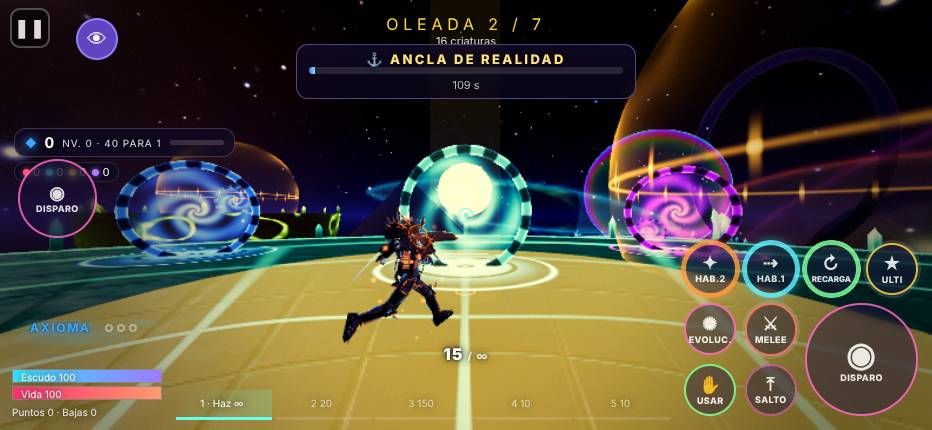
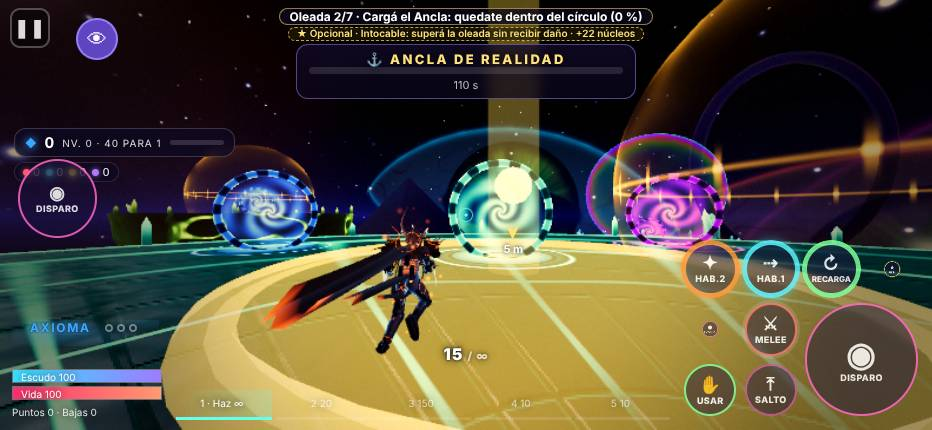
Metas claras: línea de objetivo, mini-misiones, guía de primera partida, flecha al objetivo
Claude-Session: https://claude.ai/code/session_01FQkQoAoCaRgGqcom58Ns3g

diff --git a/tests/eventos.test.js b/tests/eventos.test.js
@@ -1,0 +1,197 @@
+// Eventos de oleada (src/sim/eventos.js): la gravedad invertida sólo existe dentro de «Marea de Gravedad».
+import test from 'node:test';
+import assert from 'node:assert/strict';
+import { Game } from '../src/sim/game.js';
+import { makeBot } from '../src/sim/bot.js';
+import { EVENTO, EVENTOS, EVENTO_IDS, EVENTOS_MAPA, WAVE_PLANS } from '../src/sim/data.js';
+import { iniciarEvento, puedeInvertir, volteaJugador, factorFlip, planOleada } from '../src/sim/eventos.js';
+import { MAP_IDS } from '../src/sim/maps.js';
+import { arena, run, ahead, hash } from './helpers.js';
+import { len, dot, dist } from '../src/sim/math.js';
+
+/** Partida larga con un bot invulnerable; registra eventos de oleada y cambios de gravedad de cada jugador. */
+function jugar({ mapId = 'm1', seed = 1, oleadas = 12, maxSeg = 3000, dt = 1 / 30, soft = false } = {}) {
+  const g = new Game({ mapId, seed }); g.waveTotal = oleadas + 1;
+  const p = g.addPlayer('bot'); const bot = makeBot(g, p.id, { seed, skill: 1.2 });
+  const avisos = [], activos = [], flips = [], gravEv = []; let ultima = 0;
+  while (g.state === 'playing' && g.wave <= oleadas && g.time < maxSeg) {
+    p.hp = 1e9; p.shield = 100;
+    const inp = bot(dt); if (soft) inp.soft = true; g.setInput(p.id, inp);
+    const antes = p.flipFrom, flipAntes = g.time < p.flipUntil;
+    g.step(dt);
+    for (const e of g.events) {
+      if (e.t === 'ev' && e.ph === 'aviso') avisos.push({ id: e.id, wave: g.wave, t: g.time });
+      if (e.t === 'ev' && e.ph === 'activo') activos.push({ id: e.id, wave: g.wave, t: g.time });
+      if (e.t === 'gravity') gravEv.push({ t: g.time, soft: !!e.soft, marea: puedeInvertir(g) });
+    }
+    if (!flipAntes && g.time < p.flipUntil) flips.push({ t: g.time, marea: puedeInvertir(g), id: g.ev && g.ev.id });
+    void antes; ultima = g.time; g.events.length = 0;
+  }
+  return { g, p, avisos, activos, flips, gravEv, ultima };
+}
+
+test('datos: 8 eventos con nombre, descripción, telegrafía y contrapartida; cada mapa tiene su subconjunto con pesos', () => {
+  assert.ok(EVENTO_IDS.length >= 7);
+  for (const id of EVENTO_IDS) { const D = EVENTOS[id]; for (const k of ['name', 'desc', 'tele', 'contra']) assert.ok(typeof D[k] === 'string' && D[k].length > 3, `${id}.${k}`); assert.ok(D.dur > 0 && D.dur <= 30, `${id} duración acotada`); }
+  const usados = new Set();
+  for (const m of MAP_IDS) { const w = EVENTOS_MAPA[m]; assert.ok(w && Object.keys(w).length >= 4, `mapa ${m} sin subconjunto`); for (const [k, v] of Object.entries(w)) { assert.ok(EVENTOS[k], `${m}: evento desconocido ${k}`); assert.ok(v > 0); usados.add(k); } }
+  assert.deepEqual([...usados].sort(), [...EVENTO_IDS].sort(), 'todos los eventos aparecen en algún mapa');
+  assert.ok(EVENTOS_MAPA.m1.marea_gravedad >= 3 && EVENTOS_MAPA.m2.marea_gravedad >= 3, 'el Vacío de Islas y la Cámara Fractal son los de la gravedad');
+  assert.equal(EVENTO.flipMax, 3.5); assert.equal(EVENTO.flipBloqueo, 20); assert.equal(EVENTO.aviso, 4);
+});
+
+test('determinista: misma semilla ⇒ mismos eventos, mismas fechas y mismo estado; otra semilla ⇒ otro plan', () => {
+  const a = jugar({ seed: 5, oleadas: 5 }), b = jugar({ seed: 5, oleadas: 5 }), c = jugar({ seed: 6, oleadas: 5 });
+  assert.deepEqual(a.g.evLog, b.g.evLog); assert.deepEqual(a.avisos, b.avisos); assert.equal(hash(a.g.snapshot()), hash(b.g.snapshot()));
+  assert.ok(a.g.evLog.length >= 1, 'hubo eventos');  void c;
+  const plan = (seed) => { const g = new Game({ mapId: 'm1', seed }); const out = []; for (let n = 1; n <= 12; n++) { g.wave = n; g.evLastWave = -9; planOleada(g, n, false); out.push(g.evPlan ? g.evPlan.id : null); } return out.join(); };
+  assert.equal(plan(3), plan(3)); assert.notEqual(plan(3), plan(4));
+});
+
+test('máximo UN evento por oleada, ninguno antes de la oleada 3, nunca en dos oleadas seguidas y avisado ~4 s antes', () => {
+  for (const mapId of ['m1', 'm3']) {
+    const r = jugar({ mapId, seed: 2, oleadas: 12 });
+    assert.ok(r.g.wave >= 10, `${mapId}: el bot llegó a la oleada ${r.g.wave}`);
+    const porOleada = {}; for (const a of r.avisos) porOleada[a.wave] = (porOleada[a.wave] || 0) + 1;
+    for (const [w, n] of Object.entries(porOleada)) { assert.equal(n, 1, `${mapId}: ${n} eventos en la oleada ${w}`); assert.ok(+w >= EVENTO.minOleada, `evento en la oleada ${w}`); }
+    const ws = Object.keys(porOleada).map(Number).sort((x, y) => x - y);
+    for (let i = 1; i < ws.length; i++) assert.ok(ws[i] - ws[i - 1] >= 2, `${mapId}: oleadas seguidas con evento ${ws[i - 1]},${ws[i]}`);
+    assert.ok(ws.length >= 2 && ws.length <= 8, `${mapId}: eventos en ${ws.length} oleadas de 12`);
+    for (const a of r.avisos) { const ac = r.activos.find((x) => x.id === a.id && x.t >= a.t); assert.ok(ac && Math.abs(ac.t - a.t - EVENTO.aviso) < 0.1, `aviso ${EVENTO.aviso} s antes`); }
+    for (const e of r.g.evLog) assert.ok(EVENTOS[e.id]);
+  }
+});
+
+test('la gravedad SÓLO se invierte dentro de la Marea de Gravedad; nunca dos inversiones a un jugador en 20 s; <3 cambios por minuto', () => {
+  // Forzamos que casi toda oleada elegible traiga Marea de Gravedad (peor caso): si aun así se cumple, con el azar normal sobra.
+  const prob = EVENTO.prob, pesos = { ...EVENTOS_MAPA.m1 }, p2 = { ...EVENTOS_MAPA.m2 }, p6 = { ...EVENTOS_MAPA.m6 };
+  EVENTO.prob = 1; for (const [m, w] of [['m1', pesos], ['m2', p2], ['m6', p6]]) { for (const k of Object.keys(w)) EVENTOS_MAPA[m][k] = k === 'marea_gravedad' ? 10 : 0.0001; }
+  let totalFlips = 0, mareas = 0;
+  try {
+    for (const [mapId, seed, oleadas] of [['m1', 1, 12], ['m1', 7, 10], ['m2', 3, 7], ['m6', 5, 8]]) {
+      const r = jugar({ mapId, seed, oleadas });
+      mareas += r.g.evLog.filter((e) => e.id === 'marea_gravedad').length;
+      for (const f of r.flips) assert.ok(f.marea && f.id === 'marea_gravedad', `${mapId}/${seed}: inversión fuera de la Marea en t=${f.t.toFixed(1)}`);
+      for (const e of r.gravEv) assert.ok(e.marea, `${mapId}/${seed}: pulso de gravedad fuera de la Marea`);
+      for (let i = 1; i < r.flips.length; i++) assert.ok(r.flips[i].t - r.flips[i - 1].t >= EVENTO.flipBloqueo, `${mapId}/${seed}: dos inversiones a ${(r.flips[i].t - r.flips[i - 1].t).toFixed(1)} s`);
+      const t = r.flips.map((f) => f.t); // ventana deslizante de 60 s y promedio por minuto
+      for (let i = 0; i < t.length; i++) assert.ok(t.filter((x) => x >= t[i] && x < t[i] + 60).length < 3, `${mapId}/${seed}: ≥3 cambios en un minuto`);
+      assert.ok(r.flips.length / (r.ultima / 60) < 3, `${mapId}: promedio ${(r.flips.length / (r.ultima / 60)).toFixed(2)}/min`);
+      totalFlips += r.flips.length;
+    }
+  } finally { EVENTO.prob = prob; Object.assign(EVENTOS_MAPA.m1, pesos); Object.assign(EVENTOS_MAPA.m2, p2); Object.assign(EVENTOS_MAPA.m6, p6); }
+  assert.ok(mareas >= 6 && totalFlips >= 3, `la prueba debe ejercitar la Marea (mareas ${mareas}, inversiones ${totalFlips})`);
+  // y con el azar normal (sin forzar), una partida larga tampoco rompe nada
+  const n = jugar({ mapId: 'm1', seed: 11, oleadas: 12 }); for (const f of n.flips) assert.ok(f.marea);
+  console.log(`# 4 partidas forzadas: ${mareas} mareas, ${totalFlips} inversiones de jugador; azar normal: ${n.flips.length} en ${(n.ultima / 60).toFixed(0)} min`);
+});
+
+test('bloqueo de 20 s: volteaJugador no repite al mismo jugador; dura como máximo 3,5 s; rampa suave y aterrizaje blando', () => {
+  const { g, p } = arena('m1'); p.pos.y = 30; p.vel = { x: 0, y: 0, z: 0 };
+  assert.equal(volteaJugador(g, p, 9), true); assert.ok(p.flipUntil - g.time <= 3.5 + 1e-9, 'tope de 3,5 s');
+  assert.equal(volteaJugador(g, p), false, 'no se repite');
+  assert.equal(factorFlip(0, 0, 3.5), 1); assert.ok(factorFlip(0.3, 0, 3.5) > -0.2 && factorFlip(0.3, 0, 3.5) < 0.6, 'a mitad de la rampa pasa por ~0 (flotar), no de golpe');
+  assert.equal(factorFlip(1.5, 0, 3.5), -1); assert.equal(factorFlip(3.499, 0, 3.5) > 0.9, true);
+  let upMin = 9; const up0 = p.up.y; g.setInput(p.id, {});
+  run(g, 3.4, () => { upMin = Math.min(upMin, p.up.y); });
+  assert.ok(upMin < -0.9, 'se dio vuelta'); assert.ok(up0 > 0.9);
+  // terminada la inversión: sube como mucho unos u/s y la caída se limita hasta tocar suelo
+  run(g, 1.0); assert.ok(p.vel.y < 12, `sin lanzamiento hacia arriba (vy=${p.vel.y.toFixed(1)})`);
+  let peorCaida = 0; run(g, 8, () => { if (g.time < p.cushionUntil) peorCaida = Math.max(peorCaida, -p.vel.y); });
+  assert.ok(peorCaida <= EVENTO.amortiguaCaida + 0.8, `caída amortiguada (${peorCaida.toFixed(1)} u/s)`);
+  assert.ok(g.time < p.flipLock, 'sigue el bloqueo de 20 s');
+  g.time = p.flipLock + 0.1; assert.equal(volteaJugador(g, p), true, 'pasados los 20 s se puede otra vez');
+});
+
+test('«Reducir efectos de gravedad» (soft): la inversión es un empujón hacia arriba, sin giro (up no cambia) y con el mismo bloqueo', () => {
+  const { g, p } = arena('m1'); g.setInput(p.id, { soft: true });
+  assert.equal(volteaJugador(g, p), true); assert.ok(!(g.time < p.flipUntil), 'sin inversión');
+  let upMin = 9, vyMax = 0; run(g, 2, () => { upMin = Math.min(upMin, p.up.y); vyMax = Math.max(vyMax, p.vel.y); });
+  assert.ok(upMin > 0.99, 'la cámara no gira'); assert.ok(vyMax > 3, `empujón hacia arriba (vy máx ${vyMax.toFixed(1)})`);
+  assert.equal(volteaJugador(g, p), false); assert.equal(g.snapshot().players[0].flip, false);
+  const r = jugar({ mapId: 'm1', seed: 1, oleadas: 6, soft: true }); assert.equal(r.flips.length, 0, 'ningún giro con soft');
+});
+
+test('Marea de Gravedad: cuenta atrás de 3 s en el snapshot y luego invierte a todos; fuera de la Marea los jefes no invierten', () => {
+  const { g, p } = prep('m1'); g.wave = 3;
+  assert.equal(puedeInvertir(g), false); iniciarEvento(g, 'marea_gravedad');
+  let s = g.snapshot().ev; assert.equal(s.ph, 'aviso'); assert.ok(s.t <= 4 && s.t > 3.9); assert.equal(puedeInvertir(g), false, 'durante el aviso aún no');
+  run(g, 4.1); s = g.snapshot().ev; assert.equal(s.ph, 'activo'); assert.ok(s.cd > 0 && s.cd <= 3, 'cuenta atrás visible'); assert.equal(puedeInvertir(g), true);
+  const antes = g.time < p.flipUntil; run(g, 3.2); assert.equal(antes, false); assert.ok(g.time < p.flipUntil || p.flipLock > 0, 'invirtió tras la cuenta atrás');
+  assert.ok(p.flipUntil - p.flipFrom <= 3.5 + 1e-9);
+  const cores0 = p.cores; run(g, 8); assert.equal(g.ev, null, 'terminó'); assert.equal(puedeInvertir(g), false); assert.ok(p.cores > cores0 || g.pickups.length > 0, 'premio al terminar');
+});
+
+test('Cámara Fractal: su marea de ingravidez es el evento (sin reloj de 60 s) y termina con aterrizaje blando', () => {
+  const { g, p } = prep('m2');
+  run(g, 130); assert.ok(!g.map.zeroG(g.time) && !g.snapshot().fx.zero, 'sin evento no hay ingravidez, ni a los 130 s');
+  iniciarEvento(g, 'marea_gravedad'); run(g, 1); assert.equal(g.snapshot().fx.warn, true, 'el aviso enciende la advertencia del cascarón');
+  run(g, 3.5); assert.equal(g.snapshot().fx.zero, true); assert.ok(len(g.map.gravityAt(p.pos, g.time)) === 0);
+  let blando = false; run(g, 6.2, () => { if (p.cushionUntil > g.time) blando = true; }); assert.equal(g.snapshot().fx.zero, false); assert.ok(blando, 'amortiguación al volver la gravedad');
+  assert.ok(new Game({ mapId: 'm2' }).map !== new Game({ mapId: 'm2' }).map, 'cada partida tiene su propia marea (instancia)');
+});
+
+/* ───────── los otros eventos ───────── */
+const prep = (mapId = 'm1') => { const { g, p } = arena(mapId); g.phase = 'wave'; g.wave = 4; g.queue = []; g.spawnT = 99; g.curTypes = ['astilla', 'racimo'];
+  const d = g.spawnMonster('geoda', ahead(p, 22)); d.passive = true; d.cd = 1e9; d.hp = d.maxhp = 1e9; // una criatura lejana: la oleada no termina sola
+  return { g, p }; };
+
+test('Lluvia de Astillas: marca círculos en el suelo y, 1,5 s después, el impacto hiere a quien siga ahí', () => {
+  const { g, p } = prep(); p.shield = 1000; g.setInput(p.id, {}); iniciarEvento(g, 'lluvia_astillas', { aviso: 0 });
+  let vistas = 0, maxMk = 0; const sh0 = p.shield; run(g, 8, () => { const mk = g.snapshot().ev.mk; vistas += mk.length ? 1 : 0; maxMk = Math.max(maxMk, mk.length); });
+  assert.ok(vistas > 60 && maxMk <= 8, 'círculos telegrafiados'); const m = g.snapshot().ev.mk[0]; if (m) assert.ok(m[3] <= 1.5 + 1e-6, 'tiempo restante visible');
+  assert.ok(p.shield < sh0 || p.hp < 1e6, 'hubo impactos');
+});
+
+test('Tormenta de Ecos: el rayo cae donde estabas y destroza a las criaturas que atraigas al círculo', () => {
+  const { g, p } = prep(); iniciarEvento(g, 'tormenta_ecos', { aviso: 0 });
+  const m = g.spawnMonster('geoda', ahead(p, 2)); m.cd = 1e9; m.hp = m.maxhp = 90; m.passive = true; const hp0 = m.hp; let marcado = false;
+  run(g, 6, () => { const mk = g.snapshot().ev.mk; if (mk.length && dist({ x: mk[0][0], y: mk[0][1], z: mk[0][2] }, p.pos) < 1) marcado = true; });
+  assert.ok(marcado, 'se marcó el punto donde estás'); assert.ok(m.dead || m.hp < hp0, 'el rayo también daña a las criaturas');
+});
+
+test('Eclipse: más élites con afijo y más núcleos por baja; Niebla: núcleos ×1,5; Silencio: sin habilidades y melé ×1,5', () => {
+  const { g, p } = prep(); iniciarEvento(g, 'eclipse', { aviso: 0 }); assert.equal(g.evCoreMul, 1.8); assert.ok(g.evEliteBoost > 0.3);
+  let elites = 0; for (let i = 0; i < 40; i++) { const m = g.spawnMonster('astilla', ahead(p, 30 + i)); if (m && m.elite) { elites++; assert.ok(m.affix, 'élite con afijo'); } }
+  assert.ok(elites > 10, `muchos élites en el Eclipse (${elites}/40)`);
+  const { g: g2 } = prep(); let e0 = 0; for (let i = 0; i < 40; i++) { const m = g2.spawnMonster('astilla', { x: 40 + i, y: 1, z: 40 }); if (m && m.elite) e0++; } assert.ok(elites > e0, 'más élites que sin evento');
+  const a = prep(); iniciarEvento(a.g, 'niebla_almas', { aviso: 0 }); assert.equal(a.g.evCoreMul, 1.5);
+  const s = prep(); iniciarEvento(s.g, 'silencio', { aviso: 0 }); assert.equal(s.g.evMeleeMul, 1.5); const usos = []; const libre = () => { s.p.movCd = 0; s.p.espCd = 0; s.p.abilityCd = 0; s.p.s3Cd = 0; s.p.movPrev = s.p.espPrev = s.p.abilityPrev = false; }; libre();
+  s.g.setInput(s.p.id, { ability: true, mov: true, esp: true, s3: true, ult: true }); run(s.g, 0.5, () => { for (const e of s.g.drainEvents()) if (e.t === 'skill' || e.t === 'ability') usos.push(e); }); assert.equal(usos.length, 0, 'ninguna habilidad se usa');
+  s.g.evSilencio = false; s.g.setInput(s.p.id, { mov: false, esp: false, ability: false }); run(s.g, 0.1); libre(); s.g.setInput(s.p.id, { ability: true, mov: true, esp: true }); run(s.g, 0.3, () => { for (const e of s.g.drainEvents()) if (e.t === 'skill' || e.t === 'ability') usos.push(e); }); assert.ok(usos.length > 0, 'control: sin Silencio sí se usan'); s.g.evSilencio = true;
+  s.g.setInput(s.p.id, {}); run(s.g, 12.5); assert.equal(s.g.evSilencio, false, 'termina el silencio'); assert.equal(s.g.evMeleeMul, 1);
+});
+
+test('Marea de Sangre: suma una horda rápida de criaturas débiles y al sobrevivir cura', () => {
+  const { g, p } = prep(); const q0 = g.queue.length; p.hp = 30; iniciarEvento(g, 'marea_sangre', { aviso: 0 });
+  assert.ok(g.queue.length - q0 >= 12 && g.queue.length - q0 <= 30, `horda de ${g.queue.length - q0}`); assert.ok(g.queue.every((k) => ['astilla', 'racimo'].includes(k)), 'sólo débiles');
+  assert.equal(g.evSpeedMul, 1.25); assert.ok(g.spawnGap < 0.3);
+  const m = g.spawnMonster('astilla', ahead(p, 30)); const base = g.spawnMonster('astilla', ahead(p, 31), { noElite: true }); assert.ok(m.speedMul > 1.2 && base.speedMul > 1.2);
+  g.queue = []; g.monsters = []; run(g, 14.5); assert.equal(g.ev, null); assert.equal(g.evSpeedMul, 1); assert.ok(p.hp >= 100 - 1e-6 || p.hp > 30, 'recompensa de vida');
+});
+
+test('Bendición de la Aurora: zona que cura y da +30 % de daño; las criaturas la apagan; si sobrevive, premio', () => {
+  const { g, p } = prep(); iniciarEvento(g, 'aurora_bendita', { aviso: 0 }); const z = g.ev.zona; assert.ok(z && z.r > 5);
+  p.pos = { x: z.pos.x, y: z.pos.y, z: z.pos.z }; p.hp = 50; g.setInput(p.id, {}); run(g, 3); assert.ok(p.hp > 60, `cura dentro (${p.hp.toFixed(0)})`);
+  const m = g.spawnMonster('geoda', ahead(p, 3)); m.passive = true; m.cd = 1e9; m.hp = m.maxhp = 1000; const h0 = m.hp; g.damageMonster(m, 100, p); const d1 = h0 - m.hp;
+  g.evZona = null; const h1 = m.hp; g.damageMonster(m, 100, p); const d2 = h1 - m.hp; assert.ok(d1 > d2 * 1.25, `más daño dentro (${d1} vs ${d2})`);
+  g.evZona = z; assert.ok(g.snapshot().ev.z.length === 8, 'la zona viaja en el snapshot');
+  // si las criaturas dominan la zona, se apaga y no hay premio
+  const q = prep(); iniciarEvento(q.g, 'aurora_bendita', { aviso: 0 }); const zq = q.g.ev.zona; q.p.pos = { x: zq.pos.x + 80, y: zq.pos.y, z: zq.pos.z };
+  for (let i = 0; i < 6; i++) { const mm = q.g.spawnMonster('geoda', { x: zq.pos.x + i, y: zq.pos.y, z: zq.pos.z }); mm.passive = true; mm.cd = 1e9; mm.stun = true; }
+  const c0 = q.p.cores; run(q.g, 25); assert.equal(q.g.ev, null); assert.equal(q.p.cores, c0, 'zona perdida: sin premio');
+});
+
+test('snapshot.ev: null sin evento; con evento trae id, fase, tiempo y es serializable; el evento "fin" avisa al cliente', () => {
+  const { g, p } = prep(); assert.equal(g.snapshot().ev, null); const evs = []; iniciarEvento(g, 'niebla_almas');
+  const s = g.snapshot(); assert.deepEqual(Object.keys(s.ev).sort(), ['cd', 'd', 'id', 'mk', 'ph', 't', 'z']); JSON.parse(JSON.stringify(s));
+  for (let i = 0; i < 60 * 26; i++) { g.step(1 / 60); for (const e of g.drainEvents()) if (e.t === 'ev') evs.push(e.ph + (e.ok ? ':ok' : '')); }
+  assert.deepEqual(evs, ['activo', 'fin:ok']); assert.equal(g.snapshot().ev, null); void p;
+});
+
+test('el jefe de la oleada final sólo invierte la gravedad si le toca su Marea; terminar la oleada corta el evento', () => {
+  const g = new Game({ mapId: 'm1', seed: 4 }); g.addPlayer('x'); g.wave = 6; g.phase = 'wave';
+  for (let s = 0; s < 40; s++) { const gg = new Game({ mapId: 'm1', seed: s }); gg.addPlayer('x'); gg.wave = 6; planOleada(gg, gg.waveTotal, true); if (gg.evPlan) assert.equal(gg.evPlan.id, 'marea_gravedad'); }
+  const h = new Game({ mapId: 'm3', seed: 1 }); h.addPlayer('x'); for (let s = 0; s < 20; s++) { planOleada(h, h.waveTotal, true); assert.equal(h.evPlan, null, 'm3 no tiene Marea de Gravedad: el jefe no lleva evento'); }
+  assert.ok(WAVE_PLANS.m1.length + 1 === g.waveTotal);
+});

diff --git a/src/client/huesped-evo-piezas.js b/src/client/huesped-evo-piezas.js
@@ -44,12 +44,12 @@ export function addEvolution(ak, ctx, o = {}) {
       }
       add('gold', X(G.torus(0.2, 0.009, 4, S(18, 9)), { p: [C0.x - 0.02, C0.y - 0.02, C0.z], r: [0, 0, -0.42] }), 'upperarm01');
       add('metal', X(G.wrapE(G.plate([[-0.1, 0.1], [0.1, 0.1], [0.13, 0.0], [0.07, -0.14], [-0.07, -0.14], [-0.13, 0.0]], 0.026, 0.01), 0.12, 0.12), { p: [K.x, K.y, K.z + 0.0], r: [0, 0, 0] }), 'lowerleg01', { color: pal.steel }); // rodillera
-      add('gold', X(G.wrapE(G.plate([[-0.07, 0.07], [0.07, 0.07], [0.075, 0.062], [-0.075, 0.062]], 0.026, 0.003), 0.092, 0.09), { p: [K.x, K.y, K.z] }), 'lowerleg01');
+      if (!low) add('gold', X(G.wrapE(G.plate([[-0.07, 0.07], [0.07, 0.07], [0.075, 0.062], [-0.075, 0.062]], 0.026, 0.003), 0.092, 0.09), { p: [K.x, K.y, K.z] }), 'lowerleg01');
       add('metal', limb(G.wrapE(G.plate([[-0.06, 0.1], [0.06, 0.1], [0.07, -0.1], [0, -0.14], [-0.07, -0.1]], 0.016, 0.005), 0.07, 0.072), E0, W0, 0.5, { r: [0, Math.PI / 2, 0], off: [-0.045, 0, 0] }), 'lowerarm01', { color: pal.steel }); // escudete de antebrazo
       for (let i = 0; i < (low ? 1 : 3); i++) add('bone', X(G.wrapE(G.plate([[-0.045, 0.03], [0.045, 0.03], [0.038, -0.03], [0, -0.05], [-0.038, -0.03]], 0.016, 0.005), 0.15, 0.1), { p: [0, 1.38 - i * 0.05, 0.035], r: [0.1, 0, 0] }), 'spine01', { color: i % 2 ? pal.bone : pal.boneL }); // escamas de pecho
     });
     add('metal', X(G.wrapE(G.plate([[-0.24, 0.18], [0.24, 0.18], [0.27, 0.0], [0.18, -0.3], [-0.18, -0.3], [-0.27, 0.0]], 0.026, 0.009), 0.2, 0.15), { p: [0, 1.25, 0.04], r: [0, Math.PI, 0] }), 'spine01', { color: pal.steelD }); // espaldar
-    add('gold', seam([V(-0.14, 1.36, -0.128), V(0, 1.38, -0.15), V(0.14, 1.36, -0.128)], 0.0045), 'spine01');
+    if (!low) add('gold', seam([V(-0.14, 1.36, -0.128), V(0, 1.38, -0.15), V(0.14, 1.36, -0.128)], 0.0045), 'spine01');
   }
 
   // ═════════════ NIVEL 2
@@ -76,10 +76,10 @@ export function addEvolution(ak, ctx, o = {}) {
   }
   if (has('resonancia')) {
     const hub = V(0, 1.278, 0.06);
-    const rings = [0.42, 0.56, 0.7].map((R, i) => {
+    const rings = (low ? [0.48, 0.7] : [0.42, 0.56, 0.7]).map((R, i) => {
       const b = ak.bone('res' + i, 'spine01', hub), c = new T.Color(glow).lerp(white, 0.25);
-      add('gold', X(G.torus(R, 0.012, 4, S(34, 18)), { p: [hub.x, hub.y, hub.z] }), 'res' + i);
-      add('light', X(G.torus(R * 0.985, 0.006, 3, S(34, 18)), { p: [hub.x, hub.y, hub.z] }), 'res' + i, { color: c });
+      add('gold', X(G.torus(R, 0.012, low ? 3 : 4, S(34, 16)), { p: [hub.x, hub.y, hub.z] }), 'res' + i);
+      add('light', X(G.torus(R * 0.985, 0.006, 3, S(34, 16)), { p: [hub.x, hub.y, hub.z] }), 'res' + i, { color: c });
       for (let k = 0; k < (low ? 4 : 6); k++) { const a = (k / (low ? 4 : 6)) * Math.PI * 2 + i; add('light', X(t.box(0.03, 0.03, 0.07, 0.004, 1), { p: [hub.x + Math.cos(a) * R, hub.y, hub.z + Math.sin(a) * R], r: [0, -a, 0] }), 'res' + i, { color: c }); }
       return b;
     });
@@ -130,13 +130,13 @@ export function addEvolution(ak, ctx, o = {}) {
     const wings = [-1, 1].map((s) => {
       const hub = V(s * 0.07, 1.34, -0.12), b = ak.bone(s < 0 ? 'wingR' : 'wingL', 'spine01', hub), arm = (u) => V(s * (0.04 + 0.95 * u), 0.03 + 0.62 * Math.sin(u * Math.PI * 0.62), -0.04 - 0.14 * u);
       for (let layer = 0; layer < (low ? 1 : 2); layer++) {
-        const n = layer ? 8 : (low ? 6 : 10);
+        const n = layer ? 8 : (low ? 5 : 10);
         for (let i = 0; i < n; i++) {
           const u = 0.1 + 0.9 * (i / (n - 1)), a = arm(u), alpha = -1.15 + u * 1.55, len = (layer ? 0.62 : 0.98) * (0.7 + 0.6 * Math.sin(Math.min(1, u * 1.1 + 0.15) * Math.PI * 0.8)) * (u > 0.9 ? 0.8 : 1);
           const dir = V(s * Math.cos(alpha), Math.sin(alpha), -0.22 - layer * 0.08).normalize(), at = V(hub.x + a.x, hub.y + a.y, hub.z + a.z - layer * 0.012);
           const g = t.blade(len, 0.15 - layer * 0.035, 0.005, { tipLean: s * 0.18, curve: -0.05 }); X(g, { q: t.basisQ(dir, V(0, 0, 1)), p: [at.x, at.y, at.z] });
           add('spirit', g, b.name, { color: (x, y, z) => { const u = Math.min(1, Math.hypot(x - at.x, y - at.y, z - at.z) / len); return c1.clone().multiplyScalar(0.42).lerp(c0.clone().multiplyScalar(0.9), Math.pow(u, 0.8)); } });
-          if (!layer) { const g2 = t.blade(len * 0.96, 0.008, 0.008); X(g2, { q: t.basisQ(dir, V(0, 0, 1)), p: [at.x, at.y, at.z] }); add('light', g2, b.name, { color: c0 }); }
+          if (!layer && !low) { const g2 = t.blade(len * 0.96, 0.008, 0.008); X(g2, { q: t.basisQ(dir, V(0, 0, 1)), p: [at.x, at.y, at.z] }); add('light', g2, b.name, { color: c0 }); }
         }
       }
       add('light', G.tube([0, 0.25, 0.5, 0.75, 1].map((u) => { const a = arm(u); return V(hub.x + a.x, hub.y + a.y, hub.z + a.z); }), 0.009, 0.005, { radial: 4, tubular: 10 }), b.name, { color: c0 });

diff --git a/src/client/huesped-evo-grande.js b/src/client/huesped-evo-grande.js
@@ -19,7 +19,7 @@ export function addEvolutionBig(ak, ctx, t, pal, o = {}) {
       const S0 = P('upperarm01'), c = S0.clone().add(V(0.06, 0.08, 0));
       add('metal', X(t.dome(0.19, 0.14, { lip: 0.12, seg: S(16, 8) }), { p: [c.x, c.y, c.z], r: [0, 0, -0.55] }), 'upperarm01', { color: pal.steel });
       add('gold', X(G.torus(0.2, 0.009, 3, S(18, 9)), { p: [c.x + 0.012, c.y - 0.014, c.z], r: [Math.PI / 2, 0, -0.55] }), 'upperarm01');
-      for (let i = 0; i < 3; i++) add('metal', spikeAt(V(c.x + 0.07 + i * 0.015, c.y + 0.11 - i * 0.02, c.z + (i - 1) * 0.075), V(0.7, 0.8, (i - 1) * 0.5), 0.2 - i * 0.02, 0.026, 0, Y, { radial: S(5, 4) }), 'upperarm01', { color: pal.steelD });
+      for (let i = 0; i < (low ? 2 : 3); i++) add('metal', spikeAt(V(c.x + 0.07 + i * 0.015, c.y + 0.11 - i * 0.02, c.z + (i - 1) * 0.075), V(0.7, 0.8, (i - 1) * 0.5), 0.2 - i * 0.02, 0.026, 0, Y, { radial: S(5, 4) }), 'upperarm01', { color: pal.steelD });
     });
   }
   if (has('velocidad')) {
@@ -37,9 +37,9 @@ export function addEvolutionBig(ak, ctx, t, pal, o = {}) {
   if (has('simbiosis')) {
     const FLESH = 0xb04a58, FLESH2 = 0xd8707a;
     for (let k = 0; k < (low ? 2 : 3); k++) { // tentáculos largos que salen de la espalda
-      const sgn = k === 1 ? 0 : k ? 1 : -1, base = V(sgn * 0.1, 1.22, -0.1), pts = [0, 1, 2, 3, 4, 5, 6].map((i) => base.clone().add(V(sgn * i * 0.055, 0.05 * i - 0.012 * i * i, -0.09 * i - 0.01 * i * i)));
+      const sgn = k === 1 ? 0 : k ? 1 : -1, base = V(sgn * 0.1, 1.22, -0.1), pts = [0, 1, 2, 3, 4, 5, 6].slice(0, low ? 6 : 7).map((i) => base.clone().add(V(sgn * i * 0.055, 0.05 * i - 0.012 * i * i, -0.09 * i - 0.01 * i * i)));
       const ch = ak.chain('tentG' + k, 'spine02', pts, { stiff: 0.06, damp: 0.93, gravity: 2.5, sway: 2.2 });
-      for (let i = 0; i < 6; i++) add('flesh', G.tube([pts[i], pts[i + 1]], 0.034 - i * 0.0045, 0.029 - i * 0.0045, { radial: S(5, 4), tubular: 2 }), ch.bones[i].name, { color: i % 2 ? FLESH : FLESH2 });
+      for (let i = 0; i < pts.length - 1; i++) add('flesh', G.tube([pts[i], pts[i + 1]], 0.034 - i * 0.0045, 0.029 - i * 0.0045, { radial: S(5, 4), tubular: 2 }), ch.bones[i].name, { color: i % 2 ? FLESH : FLESH2 });
     }
   }
   if (has('anomalia')) { // anillo de grieta vertical detrás de la espalda

diff --git a/src/client/huesped-presencia.js b/src/client/huesped-presencia.js
@@ -74,13 +74,13 @@ export function createPresence(_T, { glow = 0x4ab4ff, quality = 'low' } = {}) {
     kill(ground); kill(pillar); ground = pillar = null; const cos = cosmeticosActivos(rank);
     if (evo < 1 && !cos.includes('sello')) return;
     const last = path[evo - 1], c1 = pathColor(last, glow), tier = TIER_MARCA(rank), cm = tier ? MARCA_COLOR[tier] : glow;
-    const g = new T.CircleGeometry(2, 48); g.rotateX(-Math.PI / 2);
+    const g = new T.CircleGeometry(2, 32); g.rotateX(-Math.PI / 2);
     const u = { uT: uni.uT, uK: { value: 1 }, uEvo: { value: evo }, uRank: { value: cos.includes('sello') ? rank : 0 }, uC0: { value: new T.Color(glow) }, uC1: { value: new T.Color(c1) }, uCm: { value: new T.Color(cm) } };
     ground = new T.Mesh(g, new T.ShaderMaterial({ ...add, side: T.DoubleSide, uniforms: u, vertexShader: 'varying vec2 vP; void main(){ vP = position.xz; gl_Position = projectionMatrix * modelViewMatrix * vec4(position, 1.0); }', fragmentShader: GROUND_FS }));
     ground.position.y = 0.04; ground.frustumCulled = false; ground.name = 'presencia-suelo'; ground.userData.u = u; object.add(ground);
     if (evo >= 4 || cos.includes('pilar')) { // pilar de luz: forma final y/o rango 9
-      const H = 5, col = cos.includes('pilar') ? new T.Color(0xffffff).lerp(new T.Color(cm), 0.4) : new T.Color(c1), cg = new T.CylinderGeometry(0.55, 0.9, H, 20, 1, true); cg.translate(0, H / 2, 0);
-      pillar = new T.Mesh(cg, new T.ShaderMaterial({ ...add, side: T.DoubleSide, uniforms: { uT: uni.uT, uK: { value: 0.8 }, uH: { value: H }, uC: { value: col } }, vertexShader: PILLAR_VS, fragmentShader: PILLAR_FS }));
+      const H = 5, col = cos.includes('pilar') ? new T.Color(0xffffff).lerp(new T.Color(cm), 0.4) : new T.Color(c1), cg = new T.CylinderGeometry(0.5, 0.8, H, 14, 1, true); cg.translate(0, H / 2, 0);
+      pillar = new T.Mesh(cg, new T.ShaderMaterial({ ...add, side: T.DoubleSide, uniforms: { uT: uni.uT, uK: { value: 0.55 }, uH: { value: H }, uC: { value: col } }, vertexShader: PILLAR_VS, fragmentShader: PILLAR_FS }));
       pillar.frustumCulled = false; pillar.name = 'presencia-pilar'; object.add(pillar);
     }
   }

diff --git a/tests/maestria.test.js b/tests/maestria.test.js
@@ -1,0 +1,29 @@
+import test from 'node:test';
+import assert from 'node:assert/strict';
+import { Game } from '../src/sim/game.js';
+import { BN_NEUTRO } from '../src/sim/bendiciones.js';
+import { XP_RANGO, RANGO_MAX, rangoDeXp, progreso, xpPartida, maestriaMods, recompensas, proximaRecompensa, cosmeticosActivos, BONOS } from '../src/sim/maestria.js';
+import { HOST_IDS } from '../src/sim/data.js';
+
+test('rangos: umbrales, progreso y tope', () => {
+  assert.equal(rangoDeXp(0), 1); assert.equal(rangoDeXp(99), 1); assert.equal(rangoDeXp(100), 2); assert.equal(rangoDeXp(99999), RANGO_MAX);
+  const p = progreso(175); assert.equal(p.rango, 2); assert.equal(p.falta, XP_RANGO[3] - 175); assert.ok(p.frac > 0 && p.frac < 1); assert.equal(progreso(5000).max, true);
+});
+test('XP de partida: crece con bajas, oleadas y victoria', () => {
+  assert.ok(xpPartida({ kills: 10, wave: 3 }) > xpPartida({ kills: 0, wave: 0 })); assert.equal(xpPartida({ won: true }) - xpPartida({}), 60);
+});
+test('bonos chicos y sin efecto en rango 1; los cinco Huéspedes tienen 5 bonos', () => {
+  for (const id of HOST_IDS) {
+    assert.deepEqual(maestriaMods(id, 1), {}); assert.equal(BONOS[id].length, 5);
+    for (const [k, v] of Object.entries(maestriaMods(id, 10))) if (k !== 'heal' && k !== 'kheal') assert.ok(Math.abs(v - 1) <= 0.12, `${id}.${k}=${v}`);
+    assert.equal(recompensas(id).length, 9);
+  }
+  assert.equal(proximaRecompensa('axioma', 1).rango, 2); assert.equal(proximaRecompensa('axioma', 10), null);
+  assert.deepEqual(cosmeticosActivos(1), []); assert.ok(cosmeticosActivos(10).includes('prisma'));
+});
+test('addPlayer: opts.maestria aplica mods a p.bn y sale en el snapshot (mr); sin ella nada cambia', () => {
+  const g0 = new Game({ map: 'm1', seed: 1 }), p0 = g0.addPlayer('A', null, { char: 'axioma' });
+  assert.deepEqual(p0.bn, BN_NEUTRO); assert.equal(g0.snapshot().players[0].mr, 1);
+  const g1 = new Game({ map: 'm1', seed: 1 }), p1 = g1.addPlayer('A', null, { char: 'axioma', maestria: 10 });
+  assert.ok(p1.bn.melee > 1 && p1.bn.dmgIn < 1); assert.equal(g1.snapshot().players[0].mr, 10);
+});

diff --git a/src/client/main.js b/src/client/main.js
@@ -13,7 +13,7 @@ import { NPC_INFO } from '../sim/npcs.js';
 import { createRadar } from './radar.js';
 import { createMetaHud } from './meta-ui.js';
 import { createEvoMenu } from './evo-menu.js';
-import { ESSENCE_OF, WEAPON_ORGANS, CHAMP_ORGANS, LINEAGE } from '../sim/data.js';
+import { ESSENCE_OF, WEAPON_ORGANS, CHAMP_ORGANS, LINEAGE, EVENTOS } from '../sim/data.js';
 import * as Perfil from './perfil.js';
 import * as Territorios from '../sim/bendiciones.js';
 import { TITULOS } from '../sim/maestria.js';
@@ -641,6 +641,7 @@ function bindTouchSettings() {
   bind('tacc', () => (S.accel ? '1' : '0'), (v) => setSetting('accel', v === '1'));
   bind('tag', () => Math.round(S.accelGain * 10), (v) => setSetting('accelGain', v / 10));
   bind('tinv', () => (S.invertY ? '1' : '0'), (v) => setSetting('invertY', v === '1'));
+  bind('tgrav', () => (S.reducirGravedad ? '1' : '0'), (v) => setSetting('reducirGravedad', v === '1'));
   bind('tgs', () => Math.round(S.gyroSens * 10), (v) => setSetting('gyroSens', v / 10));
   bind('tadsm', () => S.adsMode, (v) => setSetting('adsMode', v));
   bind('tfing', () => String(S.fingers), (v) => touch.setFingers(+v));

diff --git a/public/index.html b/public/index.html
@@ -152,6 +152,7 @@
       <label>Aceleración de cámara <select id="tacc"><option value="0">Apagada (velocidad fija)</option><option value="1">Encendida</option></select></label>
       <label>Intensidad de aceleración <input id="tag" type="range" min="0" max="20"></label>
       <label>Invertir eje vertical <select id="tinv"><option value="0">No</option><option value="1">Sí</option></select></label>
+      <label>Reducir efectos de gravedad <select id="tgrav"><option value="0">No</option><option value="1">Sí (empujón, sin giro de cámara)</option></select></label>
       <label>Giroscopio <select id="tgy"><option value="0">Apagado</option><option value="1">Encendido</option></select></label>
       <label>Intensidad del giroscopio <input id="tgs" type="range" min="2" max="30"></label>
       <label>Apuntar (ADS) <select id="tadsm"><option value="mantener">Mantener pulsado</option><option value="alternar">Tocar para alternar</option></select></label>

diff --git a/public/style.css b/public/style.css
@@ -432,3 +432,4 @@ body.cards-open #touch { pointer-events: none; } body.cards-open #touch .tc-btn,
 @media (max-height: 460px) { #guia { top: 30%; font-size: 11px; padding: 5px 10px; } }
 .ruta { margin: 0 0 8px; padding: 0 4px; font-size: clamp(11px, 1.9vh, 14px); color: #ffe27a; opacity: .92; }
 .card .meta { color: #ffe27a; font-style: normal; font-size: .92em; }
+@media (pointer: coarse) { #top { top: 5px; } #goal .g-main { line-height: 1.1; padding: 1px 10px; } #mision { margin-top: 2px; line-height: 1.15; padding: 0 8px; } }   /* línea de meta + misión caben sobre #objective (top 44px) */

diff --git a/src/client/settings.js b/src/client/settings.js
@@ -8,6 +8,7 @@ export const DEFAULTS = Object.freeze({
   accel: false,       // aceleración de cámara (opcional; por defecto velocidad FIJA)
   accelGain: 0.8,     // cuánto acelera un deslizamiento rápido (0..2)
   invertY: false,
+  reducirGravedad: false, // «Reducir efectos de gravedad»: la inversión de la Marea de Gravedad es un empujón hacia arriba, sin giro de cámara (viaja en el input como `soft`)
   gyro: false, gyroSens: 1,
   aim: null,          // ayuda de puntería 0..3 (null = según dispositivo)
   fingers: 2,         // 2, 3 o 4 dedos

diff --git a/src/sim/eventos.js b/src/sim/eventos.js
@@ -35,7 +35,7 @@ export function volteaJugador(g, p, secs = EVENTO.flipMax) {
   secs = Math.min(secs, EVENTO.flipMax);
   p.flipLock = g.time + secs + EVENTO.flipBloqueo;
   if (p.input && p.input.soft) { // sin giro de cámara: un salto hacia arriba y listo
-    g.push(p, mul(p.up, 15)); g.evStats.suaves++;
+    p.vel = madd(p.vel, p.up, 10); p.grounded = false; g.evStats.suaves++;
     g.emit({ t: 'gravity', soft: true, pid: p.id, p: a3(p.pos) });
     return true;
   }

diff --git a/docs/MUNDO_VIVO.md b/docs/MUNDO_VIVO.md
@@ -44,3 +44,10 @@ Desde la oleada 3 las élites llevan un **afijo** visible (halo de color + nombr
 ## Evolución del personaje (4 niveles excluyentes, núcleos) y de las armas
 - **Personaje:** núcleos → nivel 1–4 con bifurcación (docs/EVOLUCION.md) + órganos del campeón (esencias).
 - **Armas — Linajes:** un arma que llegó a nivel 3 de mejora, con mutación y un órgano, puede **ascender** a una de dos **formas finales excluyentes** («Del Alba» o «Del Ocaso»: dos mecánicas distintas según el tipo de arma) con nombre propio y aspecto cambiado.
+
+## Metas claras: qué hay que hacer en cada momento
+- **Línea de meta (HUD, arriba):** `#goal` dice siempre lo que toca: «Oleada 3/8 · Eliminá 12 criaturas», «… Cargá el Ancla (40 %)», «Elegí una mejora de arma», «Derrotá a <jefe>». Textos puros en `src/client/meta-texto.js` (`metaActual`); dibujo en `src/client/meta-ui.js`. No agrega botones; en táctil sólo muestra una línea.
+- **Meta del mapa:** ganar el mapa libera el territorio y da una bendición permanente (src/sim/bendiciones.js). Se ve en las tarjetas de Arenas, en la línea «Ruta» de Historia/Arenas, y como segunda línea de la meta (antes de empezar y en el jefe).
+- **Mini-misión opcional por oleada** (`src/sim/metas.js`, snapshot `mis`): ciclo fijo oleada 1 = «Golpe a golpe» (matar N con melé), 2 = «Intocable» (sin recibir daño), 3 = «Caza mayor» (eliminar al élite; el sim garantiza que haya uno), y así. Paga núcleos (y esencias) a quien esté vivo; sin misión en el jefe ni en el campo de pruebas. Evento `mision` (done/failed) para el aviso.
+- **Flecha al objetivo:** `snapshot.obj.tg` = punto del objetivo activo (ancla, placa sin pisar, núcleo→altar, capullo); `meta-ui.js` dibuja una flecha dorada (al borde si está fuera de pantalla).
+- **Guía de primera partida:** 4 pasos contextuales (meta, mejora, objetivos, jefe/territorio), uno a la vez, 10 s cada uno; se saltan con «Saltar guía» (táctil) o la tecla J, y se guardan en `perfil.guia` (`guiaPendiente/guiaVisto/guiaSaltar`). `?guia=0` la apaga. Pruebas: `node --test tests/metas.test.js`.
